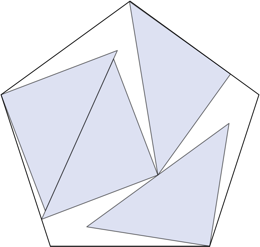
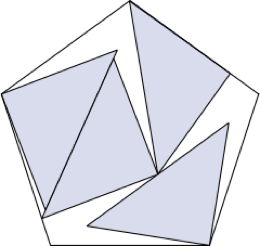
ari

diff --git a/packing/index.html b/packing/index.html
@@ -13,7 +13,7 @@
 </TR><TR>
<TD width=11%><center><font size=+1><b>Circles in Triangles</b></font>
<br>updated 7/19/02</TD>
<TD width=11%><center><font size=+1><b>Triangles in Triangles</b></font>
<br>updated 7/3/26</TD>
<TD width=11%><center><font size=+1><b>Squares in Triangles</b></font>
<br>updated 7/5/26</TD>
<TD width=11%><center><font size=+1><b>Pentagons in Triangles</b></font>
<br>updated 7/8/26</TD>
<TD width=11%><center><font size=+1><b>Hexagons in Triangles</b></font>
<br>updated 7/3/26</TD>
<TD width=11%><center><font size=+1><b>Octagons in Triangles</b></font>
<br>updated 7/6/26</TD>
<TD width=11%><center><font size=+1><b>Tans in Triangles</b></font>
<br>updated 7/1/26</TD>
<TD width=11%><center><font size=+1><b>Dominoes in Triangles</b></font>
<br>updated 7/8/26</TD>
<TD width=11%><center><font size=+1><b>L's in Triangles</b></font>
<br>updated 6/12/26</TD>
</TR></TABLE>


<TABLE BORDER=0 width=100% cellspacing=10><TR align=center>
<TD width=11%><center><A HREF="cirinsqu/" >
<IMG SRC="cirinsqu/cis.gif" width=94 height=94></center></A></TD>
<TD width=11%><center><A HREF="triinsqu/" >
<IMG SRC="triinsqu/tis.gif" width=94 height=95></center></A></TD>
<TD width=11%><center><A HREF="https://kingbird.myphotos.cc/packing/squares_in_squares.html" >
<IMG SRC="squinsqu/sis.gif" width=93 height=94></center></A></TD>
<TD width=11%><center><A HREF="peninsqu/" >
<IMG SRC="peninsqu/pis.gif" width=98 height=98></center></A></TD>
<TD width=11%><center><A HREF="hexinsqu/" >
<IMG SRC="hexinsqu/his.gif" width=90 height=90></center></A></TD>
 <TD width=11%><center><A HREF="octinsqu/" >
<IMG SRC="octinsqu/ois.gif" width=100 height=100></center></A></TD>
 <TD width=11%><center><A HREF="taninsqu/" >
<IMG SRC="taninsqu/tis.gif" width=98 height=98></center></A></TD>
<TD width=11%><center><A HREF="dominsqu/" >
<IMG SRC="dominsqu/dis.gif" width=100 height=100></center></A></TD>
-<TD width=11%><center><A HREF="linsqu/" >
<IMG SRC="linsqu/lis.gif" width=98 height=98></center></A></TD>
</TR><TR>
<TD width=11%><center><font size=+1><b>Circles in Squares</b></font>
<br>updated 10/9/10</TD>
<TD width=11%><center><font size=+1><b>Triangles in Squares</b></font>
<br>updated 6/5/26</TD>
<TD width=11%><center><font size=+1><b>Squares in Squares</b></font>
<br>(David Ellsworth's page)</TD>
<TD width=11%><center><font size=+1><b>Pentagons in Squares</b></font>
<br>updated 7/6/26</TD>
<TD width=11%><center><font size=+1><b>Hexagons in Squares</b></font>
<br>updated 7/3/26</TD>
<TD width=11%><center><font size=+1><b>Octagons in Squares</b></font>
<br>updated 7/1/26</TD>
<TD width=11%><center><font size=+1><b>Tans in Squares</b></font>
<br>updated 7/1/26</TD>
<TD width=11%><center><font size=+1><b>Dominoes in Squares</b></font>
<br>updated 6/17/26</TD>
<TD width=11%><center><font size=+1><b>L's in Squares</b></font>
<br>updated 7/1/26</TD>
</TR></TABLE>


<TABLE BORDER=0 width=100% cellspacing=10><TR align=center>
<TD width=12%><center><A HREF="cirinpen/" >
<IMG SRC="cirinpen/cip.gif" width=93 height=88></center></A></TD>
+<TD width=11%><center><A HREF="linsqu/" >
<IMG SRC="linsqu/lis.gif" width=98 height=98></center></A></TD>
</TR><TR>
<TD width=11%><center><font size=+1><b>Circles in Squares</b></font>
<br>updated 10/9/10</TD>
<TD width=11%><center><font size=+1><b>Triangles in Squares</b></font>
<br>updated 6/5/26</TD>
<TD width=11%><center><font size=+1><b>Squares in Squares</b></font>
<br>(David Ellsworth's page)</TD>
<TD width=11%><center><font size=+1><b>Pentagons in Squares</b></font>
<br>updated 7/6/26</TD>
<TD width=11%><center><font size=+1><b>Hexagons in Squares</b></font>
<br>updated 7/3/26</TD>
<TD width=11%><center><font size=+1><b>Octagons in Squares</b></font>
<br>updated 7/1/26</TD>
<TD width=11%><center><font size=+1><b>Tans in Squares</b></font>
<br>updated 7/9/26</TD>
<TD width=11%><center><font size=+1><b>Dominoes in Squares</b></font>
<br>updated 6/17/26</TD>
<TD width=11%><center><font size=+1><b>L's in Squares</b></font>
<br>updated 7/1/26</TD>
</TR></TABLE>


<TABLE BORDER=0 width=100% cellspacing=10><TR align=center>
<TD width=12%><center><A HREF="cirinpen/" >
<IMG SRC="cirinpen/cip.gif" width=93 height=88></center></A></TD>
 <TD width=12%><center><A HREF="triinpen/" >
<IMG SRC="triinpen/tip.gif" width=91 height=86></center></A></TD>
 <TD width=12%><center><A HREF="squinpen/" >
<IMG SRC="squinpen/sip.gif" width=100 height=96></center></A></TD>
 <TD width=12%><center><A HREF="peninpen/" >
<IMG SRC="peninpen/pip.gif" width=105 height=100></center></A></TD>
@@ -22,7 +22,7 @@
 <TD width=12%><center><A HREF="taninpen/" >
<IMG SRC="taninpen/tip.gif" width=105 height=100></center></A></TD>
 <TD width=12%><center><A HREF="dominpen/" >
<IMG SRC="dominpen/dip.gif" width=105 height=100></center></A></TD>
 <TD width=12%><center><A HREF="Linpen/" >
<IMG SRC="Linpen/lip.gif" width=105 height=100></center></A></TD>
-</TR><TR>
<TD width=11%><center><font size=+1><b>Circles in Pentagons</b></font>
<br>updated 7/10/12</TD>
<TD width=11%><center><font size=+1><b>Triangles in Pentagons</b></font>
<br>updated 7/7/26</TD>
<TD width=11%><center><font size=+1><b>Squares in Pentagons</b></font>
<br>updated 6/12/26</TD>
<TD width=11%><center><font size=+1><b>Pentagons in Pentagons</b></font>
<br>updated 6/29/26</TD>
<TD width=11%><center><font size=+1><b>Hexagons in Pentagons</b></font>
<br>updated 7/7/26</TD>
<TD width=11%><center><font size=+1><b>Octagons in Pentagons</b></font>
<br>updated 7/8/26</TD>
<TD width=11%><center><font size=+1><b>Tans in Pentagons</b></font>
<br>updated 6/15/26</TD>
<TD width=11%><center><font size=+1><b>Dominoes in Pentagons</b></font>
<br>updated 5/30/26</TD>
<TD width=11%><center><font size=+1><b>L's in Pentagons</b></font>
<br>updated 6/5/26</TD>
</TR></TABLE>
+</TR><TR>
<TD width=11%><center><font size=+1><b>Circles in Pentagons</b></font>
<br>updated 7/10/12</TD>
<TD width=11%><center><font size=+1><b>Triangles in Pentagons</b></font>
<br>updated 7/7/26</TD>
<TD width=11%><center><font size=+1><b>Squares in Pentagons</b></font>
<br>updated 6/12/26</TD>
<TD width=11%><center><font size=+1><b>Pentagons in Pentagons</b></font>
<br>updated 6/29/26</TD>
<TD width=11%><center><font size=+1><b>Hexagons in Pentagons</b></font>
<br>updated 7/7/26</TD>
<TD width=11%><center><font size=+1><b>Octagons in Pentagons</b></font>
<br>updated 7/8/26</TD>
<TD width=11%><center><font size=+1><b>Tans in Pentagons</b></font>
<br>updated 7/9/26</TD>
<TD width=11%><center><font size=+1><b>Dominoes in Pentagons</b></font>
<br>updated 5/30/26</TD>
<TD width=11%><center><font size=+1><b>L's in Pentagons</b></font>
<br>updated 6/5/26</TD>
</TR></TABLE>
 
 
 <TABLE BORDER=0 width=100% cellspacing=10><TR align=center>
<TD width=11%><center><A HREF="cirinhex/" >
<IMG SRC="cirinhex/cih.gif" width=106 height=93></center></A></TD>
<TD width=11%><center><A HREF="triinhex/" >
<IMG SRC="triinhex/tih.gif" width=107 height=93></center></A></TD>
<TD width=11%><center><A HREF="squinhex/" >
<IMG SRC="squinhex/sih.gif" width=93 height=81></center></A></TD>
@@ -32,7 +32,7 @@
 <TD width=11%><center><A HREF="taninhex/" >
<IMG SRC="taninhex/tih.gif" width=105 height=91></center></A></TD>
 <TD width=11%><center><A HREF="dominhex/" >
<IMG SRC="dominhex/dih.gif" width=110 height=95></center></A></TD>
 <TD width=11%><center><A HREF="Linhex/" >
<IMG SRC="Linhex/lih.gif" width=110 height=95></center></A></TD>
-</TR><TR>
<TD width=11%><center><font size=+1><b>Circles in Hexagons</b></font>
<br>updated 7/19/12</TD>
<TD width=11%><center><font size=+1><b>Triangles in Hexagons</b></font>
<br>updated 7/5/26</TD>
<TD width=11%><center><font size=+1><b>Squares in Hexagons</b></font>
<br>updated 7/6/26</TD>
<TD width=11%><center><font size=+1><b>Pentagons in Hexagons</b></font>
<br>updated 7/6/26</TD>
<TD width=11%><center><font size=+1><b>Hexagons in Hexagons</b></font>
<br>updated 7/5/26</TD>
<TD width=11%><center><font size=+1><b>Octagons in Hexagons</b></font>
<br>updated 7/6/26</TD>
<TD width=11%><center><font size=+1><b>Tans in Hexagons</b></font>
<br>updated 6/15/26</TD>
<TD width=11%><center><font size=+1><b>Dominoes in Hexagons</b></font>
<br>updated 4/15/26</TD>
<TD width=11%><center><font size=+1><b>L's in Hexagons</b></font>
<br>updated 6/5/26</TD>
</TR></TABLE>


<TABLE BORDER=0 width=100% cellspacing=10><TR align=center>
<TD width=11%><center><A HREF="https://www.packomania.com/coc/coc.html" >
<IMG SRC="logos/cirinoct.gif" width=100 height=99></center></A></TD>
+</TR><TR>
<TD width=11%><center><font size=+1><b>Circles in Hexagons</b></font>
<br>updated 7/19/12</TD>
<TD width=11%><center><font size=+1><b>Triangles in Hexagons</b></font>
<br>updated 7/5/26</TD>
<TD width=11%><center><font size=+1><b>Squares in Hexagons</b></font>
<br>updated 7/6/26</TD>
<TD width=11%><center><font size=+1><b>Pentagons in Hexagons</b></font>
<br>updated 7/6/26</TD>
<TD width=11%><center><font size=+1><b>Hexagons in Hexagons</b></font>
<br>updated 7/5/26</TD>
<TD width=11%><center><font size=+1><b>Octagons in Hexagons</b></font>
<br>updated 7/6/26</TD>
<TD width=11%><center><font size=+1><b>Tans in Hexagons</b></font>
<br>updated 7/9/26</TD>
<TD width=11%><center><font size=+1><b>Dominoes in Hexagons</b></font>
<br>updated 4/15/26</TD>
<TD width=11%><center><font size=+1><b>L's in Hexagons</b></font>
<br>updated 6/5/26</TD>
</TR></TABLE>


<TABLE BORDER=0 width=100% cellspacing=10><TR align=center>
<TD width=11%><center><A HREF="https://www.packomania.com/coc/coc.html" >
<IMG SRC="logos/cirinoct.gif" width=100 height=99></center></A></TD>
 <TD width=11%><center><A HREF="triinoct/" >
<IMG SRC="triinoct/tio.gif" width=90 height=90></center></A></TD>
 <TD width=11%><center><A HREF="squinoct/" >
<IMG SRC="squinoct/sio.gif" width=90 height=90></center></A></TD>
 <TD width=11%><center><A HREF="peninoct/" >
<IMG SRC="peninoct/pio.gif" width=100 height=100></center></A></TD>

diff --git a/packing/taninhex/index.html b/packing/taninhex/index.html
@@ -3,7 +3,7 @@
 <table align=center cellpadding=10><tr align=center>
 <td><font size=+3>1.</font><br><img src="1.png"><br>s = .74062+<br>Trivial.<br>&nbsp;
 <td>&nbsp;&nbsp;&nbsp;&nbsp;&nbsp;&nbsp;&nbsp;&nbsp;&nbsp;&nbsp;
<td><font size=+3>2.</font><br><img src="2.png"><br>s =  (3+&radic;3)/6 = .78867+<br>Found by Jonathan Viquerat<br>in May 2026.
-<td>&nbsp;&nbsp;&nbsp;&nbsp;&nbsp;&nbsp;&nbsp;&nbsp;&nbsp;&nbsp;
<td><font size=+3>3.</font><br><img src="3.png"><br>s = .98883+<br>Found by Jonathan Viquerat<br>in May 2026.
+<td>&nbsp;&nbsp;&nbsp;&nbsp;&nbsp;&nbsp;&nbsp;&nbsp;&nbsp;&nbsp;
<td><font size=+3>3.</font><br><img src="3.png"><br>s = .98882+<br>Found by Aristotle Papowitz<br>in July 2026.
 </table><hr>
 
 <table align=center cellpadding=10><tr align=center>

diff --git a/packing/taninpen/index.html b/packing/taninpen/index.html
@@ -1,4 +1,4 @@
-<!doctype html public "-//IETF//DTD HTML//EN"><HTML>

<HEAD><TITLE>Tans in Pentagons</TITLE></HEAD>
<BODY BGCOLOR="#FFFFFF">
<CENTER><font size=+4>Tans in Pentagons</font></CENTER><p>

<font size=+1>The following pictures show n tans (with short side 1) packed inside the smallest known pentagon (with side s).<p><HR><p>

<TABLE BORDER=0 width=100% cellspacing=0><TR align=center>
<TD><font size=+3>1.<br><img src="1.png" align=abscenter>
<td>&nbsp;&nbsp;&nbsp;&nbsp;&nbsp;&nbsp;&nbsp;&nbsp;&nbsp;&nbsp;
<TD><font size=+3>2.<br><img src="2.png" align=abscenter>
<td>&nbsp;&nbsp;&nbsp;&nbsp;&nbsp;&nbsp;&nbsp;&nbsp;&nbsp;&nbsp;
<TD><font size=+3>3.<br><img src="3.png" align=abscenter>
</tr><tr>
<td align=center><font size=+1>s = .87403+<br>Trivial.
<TD><td align=center><font size=+1>s = .93686+<br>Found by Jonathan Viquerat<br>in May 2026.
<TD><td align=center><font size=+1>s = 1.10580+<br>Found by Jonathan Viquerat<br>in May 2026.
</TR></TABLE><p><hr><p>

<TABLE BORDER=0 width=100% cellspacing=0><TR align=center>
<TD><font size=+3>4.<br><img src="4.png" align=abscenter>
<td>&nbsp;&nbsp;&nbsp;&nbsp;&nbsp;&nbsp;&nbsp;&nbsp;&nbsp;&nbsp;
<TD><font size=+3>5.<br><img src="5.png" align=abscenter>
<td>&nbsp;&nbsp;&nbsp;&nbsp;&nbsp;&nbsp;&nbsp;&nbsp;&nbsp;&nbsp;
<TD><font size=+3>6.<br><img src="6.png" align=abscenter>
</tr><tr>
<td align=center><font size=+1>s = 1.28056+<br>Found by Jonathan Viquerat<br>in May 2026.
<TD><td align=center><font size=+1>s = 1.38606+<br>Found by Jonathan Viquerat<br>in May 2026.
<TD><td align=center><font size=+1>s = 1.50657+<br>Found by Jonathan Viquerat<br>in May 2026.
</TR></TABLE><p><hr><p>

<TABLE BORDER=0 width=100% cellspacing=0><TR align=center>
<TD><font size=+3>7.<br><img src="7.png" align=abscenter>
<td>&nbsp;&nbsp;&nbsp;&nbsp;&nbsp;&nbsp;&nbsp;&nbsp;&nbsp;&nbsp;
<TD><font size=+3>8.<br><img src="8.png" align=abscenter>
<td>&nbsp;&nbsp;&nbsp;&nbsp;&nbsp;&nbsp;&nbsp;&nbsp;&nbsp;&nbsp;
<TD><font size=+3>9.<br><img src="9.png" align=abscenter>
</tr><tr>
<td align=center><font size=+1>s = 1.62694+<br>Found by Jonathan Viquerat<br>in May 2026.
<TD><td align=center><font size=+1>s = 1.71964+<br>Found by Jonathan Viquerat<br>in May 2026.
<TD><td align=center><font size=+1>s = 1.79909+<br>Found by Thomas Greenleaf<br>in June 2026.
</TR></TABLE><p><hr><p>
+<!doctype html public "-//IETF//DTD HTML//EN"><HTML>

<HEAD><TITLE>Tans in Pentagons</TITLE></HEAD>
<BODY BGCOLOR="#FFFFFF">
<CENTER><font size=+4>Tans in Pentagons</font></CENTER><p>

<font size=+1>The following pictures show n tans (with short side 1) packed inside the smallest known pentagon (with side s).<p><HR><p>

<TABLE BORDER=0 width=100% cellspacing=0><TR align=center>
<TD><font size=+3>1.<br><img src="1.png" align=abscenter>
<td>&nbsp;&nbsp;&nbsp;&nbsp;&nbsp;&nbsp;&nbsp;&nbsp;&nbsp;&nbsp;
<TD><font size=+3>2.<br><img src="2.png" align=abscenter>
<td>&nbsp;&nbsp;&nbsp;&nbsp;&nbsp;&nbsp;&nbsp;&nbsp;&nbsp;&nbsp;
<TD><font size=+3>3.<br><img src="3.png" align=abscenter>
</tr><tr>
<td align=center><font size=+1>s = .87403+<br>Trivial.
<TD><td align=center><font size=+1>s = .93686+<br>Found by Jonathan Viquerat<br>in May 2026.
<TD><td align=center><font size=+1>s = 1.10580+<br>Found by Jonathan Viquerat<br>in May 2026.
</TR></TABLE><p><hr><p>

<TABLE BORDER=0 width=100% cellspacing=0><TR align=center>
<TD><font size=+3>4.<br><img src="4.png" align=abscenter>
<td>&nbsp;&nbsp;&nbsp;&nbsp;&nbsp;&nbsp;&nbsp;&nbsp;&nbsp;&nbsp;
<TD><font size=+3>5.<br><img src="5.png" align=abscenter>
<td>&nbsp;&nbsp;&nbsp;&nbsp;&nbsp;&nbsp;&nbsp;&nbsp;&nbsp;&nbsp;
<TD><font size=+3>6.<br><img src="6.png" align=abscenter>
</tr><tr>
<td align=center><font size=+1>s = 1.28055+<br>Found by Aristotle Papowitz<br>in July 2026.
<TD><td align=center><font size=+1>s = 1.38606+<br>Found by Jonathan Viquerat<br>in May 2026.
<TD><td align=center><font size=+1>s = 1.50657+<br>Found by Jonathan Viquerat<br>in May 2026.
</TR></TABLE><p><hr><p>

<TABLE BORDER=0 width=100% cellspacing=0><TR align=center>
<TD><font size=+3>7.<br><img src="7.png" align=abscenter>
<td>&nbsp;&nbsp;&nbsp;&nbsp;&nbsp;&nbsp;&nbsp;&nbsp;&nbsp;&nbsp;
<TD><font size=+3>8.<br><img src="8.png" align=abscenter>
<td>&nbsp;&nbsp;&nbsp;&nbsp;&nbsp;&nbsp;&nbsp;&nbsp;&nbsp;&nbsp;
<TD><font size=+3>9.<br><img src="9.png" align=abscenter>
</tr><tr>
<td align=center><font size=+1>s = 1.62694+<br>Found by Jonathan Viquerat<br>in May 2026.
<TD><td align=center><font size=+1>s = 1.71964+<br>Found by Jonathan Viquerat<br>in May 2026.
<TD><td align=center><font size=+1>s = 1.79909+<br>Found by Thomas Greenleaf<br>in June 2026.
</TR></TABLE><p><hr><p>
 
 <TABLE BORDER=0 width=100% cellspacing=0><TR align=center>
<TD><font size=+3>10.<br><img src="10.png" align=abscenter>
<td>&nbsp;&nbsp;&nbsp;&nbsp;&nbsp;&nbsp;&nbsp;&nbsp;&nbsp;&nbsp;
<TD><font size=+3>11.<br><img src="11.png" align=abscenter>
<td>&nbsp;&nbsp;&nbsp;&nbsp;&nbsp;&nbsp;&nbsp;&nbsp;&nbsp;&nbsp;
<TD><font size=+3>12.<br><img src="12.png" align=abscenter>
</tr><tr>
<td align=center><font size=+1>s = 1.87393+<br>Found by Thomas Greenleaf<br>in June 2026.
<TD><td align=center><font size=+1>s = 1.95640+<br>Found by Jake Loyd<br>in June 2026.
<TD><td align=center><font size=+1>s = 2.02754+<br>Found by Jake Loyd<br>in June 2026.
</TR></TABLE><p><hr><p>
 

diff --git a/packing/taninsqu/index.html b/packing/taninsqu/index.html
@@ -11,7 +11,7 @@
 <TD><td align=center><font size=+1>s = 2.82747+<br>Found by Haowei Lin<br>in July 2026.
 </TR></TABLE><p><hr><p>

<TABLE BORDER=0 width=100% cellspacing=0><TR align=center>
<TD><font size=+3>16.<br><img align=abscenter src="16.gif">
<td>&nbsp;&nbsp;&nbsp;&nbsp;&nbsp;&nbsp;&nbsp;&nbsp;&nbsp;&nbsp;
<TD><font size=+3>17.<br><img align=abscenter src="17.gif">
<td>&nbsp;&nbsp;&nbsp;&nbsp;&nbsp;&nbsp;&nbsp;&nbsp;&nbsp;&nbsp;
<TD><font size=+3>18.<br><img align=abscenter src="18.gif">
</tr><TR align=center>
<td align=center><font size=+1>s = 2&radic;2 = 2.828+<br>Trivial.
<TD><td align=center><font size=+1>s = 2.970+<br>Found by David W. Cantrell<br>in August 2007.
 <TD><td align=center><font size=+1>s = 3<br>Trivial.
-</TR></TABLE><p><hr><p>

<TABLE BORDER=0 width=100% cellspacing=0><TR align=center>
<TD><font size=+3>19.<br><img align=abscenter src="19.gif">
<td>&nbsp;&nbsp;&nbsp;&nbsp;&nbsp;&nbsp;&nbsp;&nbsp;&nbsp;&nbsp;
<TD><font size=+3>20.<br><img align=abscenter src="20.gif">
<td>&nbsp;&nbsp;&nbsp;&nbsp;&nbsp;&nbsp;&nbsp;&nbsp;&nbsp;&nbsp;
<TD><font size=+3>21.<br><img align=abscenter src="21.gif">
</tr><TR align=center>
<td align=center><font size=+1>s = 3.201+<br>Found by Maurizio Morandi<br>in February 2008.
<TD><td align=center><font size=+1>s = 3.26906+<br>Found by Haowei Lin<br>in July 2026.
+</TR></TABLE><p><hr><p>

<TABLE BORDER=0 width=100% cellspacing=0><TR align=center>
<TD><font size=+3>19.<br><img align=abscenter src="19.gif">
<td>&nbsp;&nbsp;&nbsp;&nbsp;&nbsp;&nbsp;&nbsp;&nbsp;&nbsp;&nbsp;
<TD><font size=+3>20.<br><img align=abscenter src="20.gif">
<td>&nbsp;&nbsp;&nbsp;&nbsp;&nbsp;&nbsp;&nbsp;&nbsp;&nbsp;&nbsp;
<TD><font size=+3>21.<br><img align=abscenter src="21.gif">
</tr><TR align=center>
<td align=center><font size=+1>s = 3.201+<br>Found by Maurizio Morandi<br>in February 2008.
<TD><td align=center><font size=+1>s = 3.26857+<br>Found by Aristotle Papowitz<br>in July 2026.
 <TD><td align=center><font size=+1>s = 3.340+<br>Found by Maurizio Morandi<br>in March 2008.
 </TR></TABLE><p><hr><p>
 